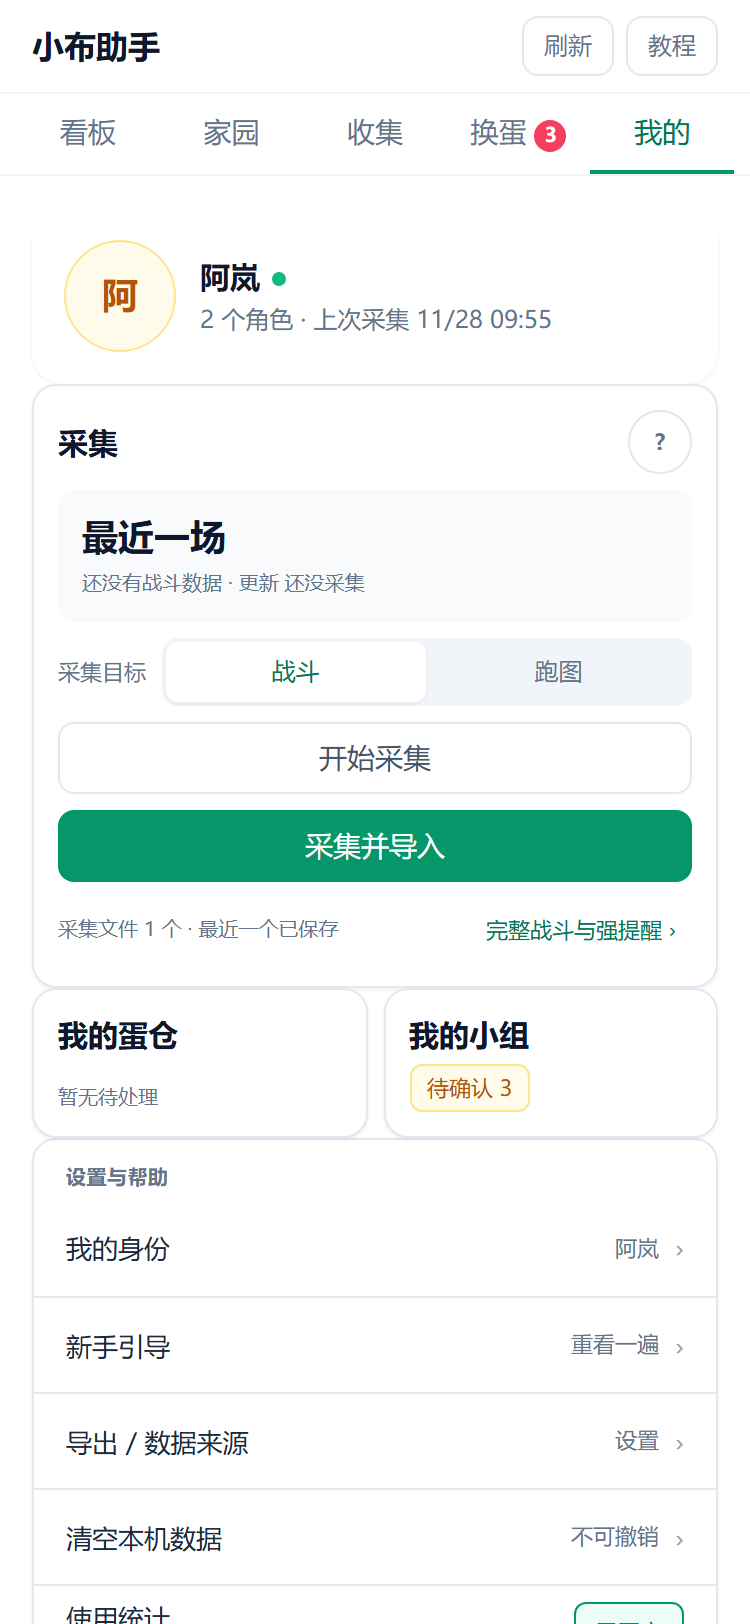
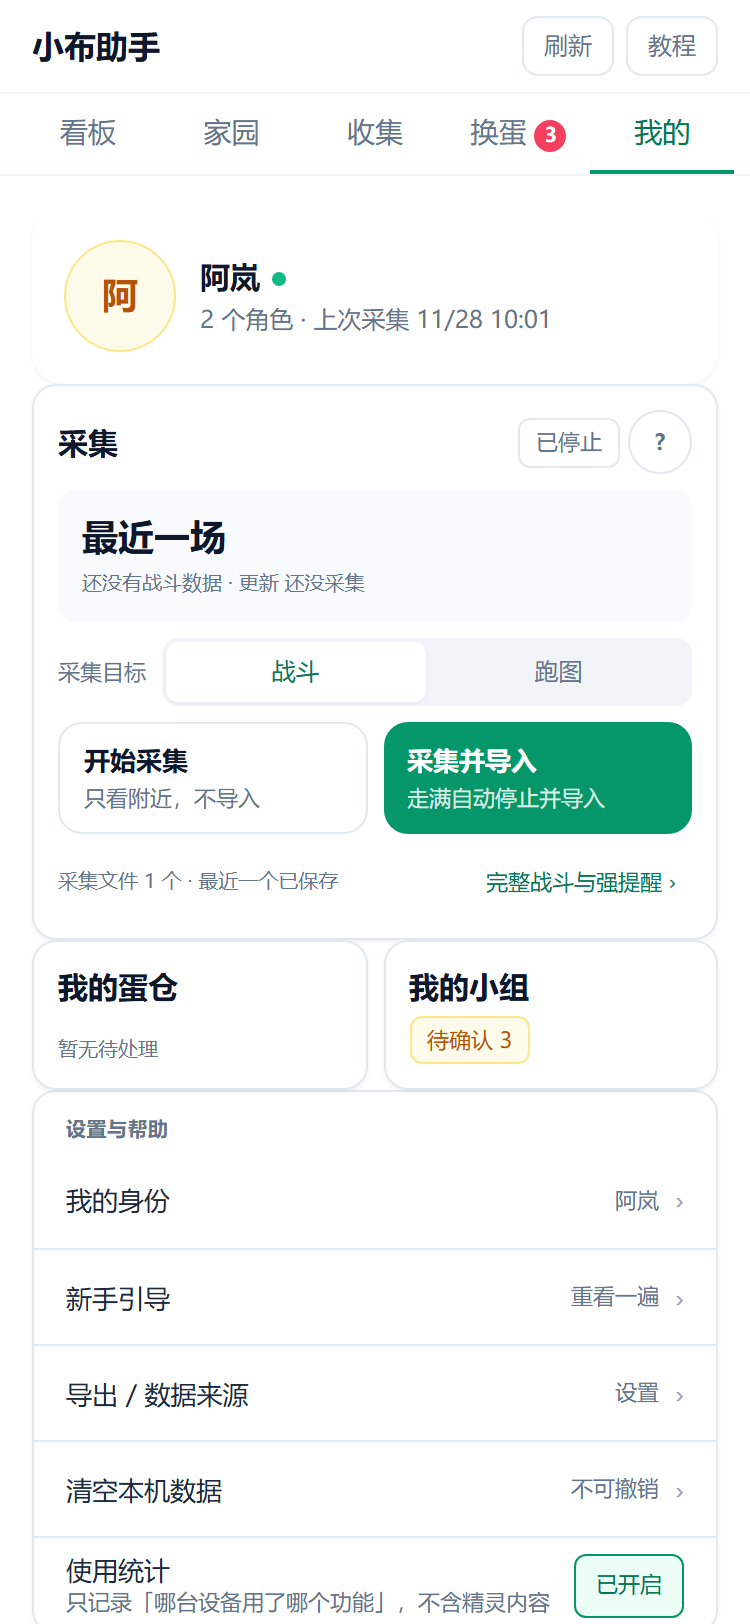
feat(profile): 采集卡两个启动入口并排 + 自动完成态（UX1 v3 最终稿）
- 两张并排小卡（各约 156×56）：左白底描边「开始采集 / 只看附近，不导入」，
  右实底「采集并导入 / 走满自动停止并导入」；全卡唯一主色在右侧
- 卡头加状态 chip（已停止 / 采集中 / 已完成）
- 采集中：两张收起成整行危险色「停止并保存 N 包 · X MiB」，详情页发起时
  仍显示「本次由详情页发起，不自动停止、不自动导入」+「查看列表」
- 自动导入完成：出现一次性「已采集并导入」完成态（知道了 消掉），
  不再直接变回「已停止」；失败测试钉住（CollectSection.complete.test.tsx）
- 截图：全页 / 采集中 / ? 展开 / 自动完成，375 与 390
  （完成态截图用 DEV-only ?mockComplete=1 强制展示）

diff --git a/src/ui/NativeCollectorPanel.tsx b/src/ui/NativeCollectorPanel.tsx
@@ -63,6 +63,10 @@ export function NativeCollectorPanel({
    *  附近页触发的也是同一流程，所以等待期间切页不会中断，回来也不会重复导入。 */
   const flow = useAutoImport();
   const completed = flow.completion;
+  // 仅开发/截图：?mockComplete=1 强制展示一次性完成态（生产构建会摇掉）
+  const forceComplete = import.meta.env.DEV && typeof window !== 'undefined'
+    && new URLSearchParams(window.location.search).has('mockComplete');
+  const showComplete = completed != null || forceComplete;
   const autoStage = flow.stage;
   const completionError = flow.completionError;
   /** 采集归属：这路采集是从附近页还是本页发起的（决定要不要自动停止 / 导入） */
@@ -294,6 +298,13 @@ export function NativeCollectorPanel({
       <section data-testid="native-collector" data-compact="true" className="space-y-s2">
         <div className="flex items-center justify-between gap-s2">
           <h2 className="text-title font-semibold text-ink-strong">采集</h2>
+          <div className="flex items-center gap-s1">
+            <span
+              className="rounded-chip border border-line px-s2 py-s1 text-meta text-ink-muted"
+              data-testid="profile-collect-state"
+            >
+              {showComplete ? '已完成' : busy ? '采集中' : '已停止'}
+            </span>
           <button
             type="button"
             aria-expanded={helpOpen}
@@ -304,6 +315,7 @@ export function NativeCollectorPanel({
           >
             ?
           </button>
+          </div>
         </div>
 
         {/* 边界与错误不收起：没有桥 / 系统过低 / 桥报错直接可见 */}
@@ -362,15 +374,34 @@ export function NativeCollectorPanel({
           />
         </div>
 
-        {busy ? (
+        {showComplete && !busy ? (
+          <div
+            className="space-y-s2 rounded-tile border border-accent-line bg-accent-soft p-s3"
+            data-testid="profile-collect-complete"
+          >
+            <div>
+              <p className="text-body font-semibold text-accent-strong">已采集并导入</p>
+              <p className="text-caption text-ink-soft">这次采集的数据已经保存到本机，看板可直接使用。</p>
+            </div>
+            <Button
+              variant="secondary"
+              size="sm"
+              onClick={() => clearAutoImportCompletion()}
+              data-testid="profile-collect-complete-dismiss"
+            >
+              知道了
+            </Button>
+          </div>
+        ) : busy ? (
           <div className="space-y-s2" data-testid="profile-collect-busy">
             <Button
+              variant="danger"
               className="w-full"
               disabled={state?.phase === 'stopping'}
               onClick={() => void action('stopCapture')}
               data-testid="profile-collect-stop"
             >
-              停止并保存
+              {'停止并保存 ' + (state?.packets ?? 0) + ' 包 · ' + ((state?.bytes ?? 0) / 1024 / 1024).toFixed(1) + ' MiB'}
             </Button>
             {nearbyOwnedNow ? (
               <p className="text-caption text-ink-muted" data-testid="profile-collect-nearby-owned">
@@ -384,24 +415,27 @@ export function NativeCollectorPanel({
             ) : null}
           </div>
         ) : (
-          <div className="space-y-s2">
-            <Button
-              variant="secondary"
-              className="w-full"
+          <div className="grid grid-cols-2 gap-s2" data-testid="profile-collect-actions">
+            <button
+              type="button"
               disabled={importing || !!error || (desktop && !devices?.ok)}
               onClick={() => void peek()}
               data-testid="profile-collect-peek"
+              className="flex min-h-14 flex-col items-start justify-center rounded-card border border-line bg-surface px-s3 py-s2 text-left transition-colors active:bg-surface-sunken disabled:opacity-50"
             >
-              开始采集
-            </Button>
-            <Button
-              className="w-full"
+              <span className="text-[13px] font-semibold text-ink-strong">开始采集</span>
+              <span className="text-[11px] text-ink-muted">只看附近，不导入</span>
+            </button>
+            <button
+              type="button"
               disabled={importing || !!error || (desktop && !devices?.ok)}
               onClick={() => void action('startCapture')}
               data-testid="profile-collect-import"
+              className="flex min-h-14 flex-col items-start justify-center rounded-card bg-accent px-s3 py-s2 text-left text-white transition-colors active:bg-accent-strong disabled:opacity-50"
             >
-              采集并导入
-            </Button>
+              <span className="text-[13px] font-semibold">采集并导入</span>
+              <span className="text-[11px] text-white/85">走满自动停止并导入</span>
+            </button>
           </div>
         )}
 

diff --git a/src/ui/profile/sections/CollectSection.complete.test.tsx b/src/ui/profile/sections/CollectSection.complete.test.tsx
@@ -1,0 +1,57 @@
+import { cleanup, render, screen } from '@testing-library/react';
+import { afterEach, beforeEach, describe, expect, test, vi } from 'vitest';
+import { CollectSection } from './CollectSection';
+import { makeCtx } from '../testContext';
+
+/**
+ * 「采集并导入」走完自动停止 + 自动导入后，卡片要出现一次性的「已采集并导入」，
+ * 不能直接变回「已停止」（用户看不到那个停止按钮，需要一个已入库信号）。
+ */
+const { clearAutoImportCompletion } = vi.hoisted(() => ({ clearAutoImportCompletion: vi.fn() }));
+vi.mock('../../../collector/autoImportFlow', async (importOriginal) => {
+  const actual = await importOriginal<typeof import('../../../collector/autoImportFlow')>();
+  return {
+    ...actual,
+    useAutoImport: () => ({ stage: null, completion: { mock: true }, completionError: null }),
+    clearAutoImportCompletion,
+  };
+});
+
+const bridgeState = JSON.stringify({
+  version: 1,
+  supported: true,
+  phase: 'idle',
+  message: '已停止',
+  packets: 0,
+  bytes: 0,
+  files: [],
+});
+
+beforeEach(() => {
+  clearAutoImportCompletion.mockClear();
+  (window as unknown as { RocoCapture?: unknown }).RocoCapture = {
+    getState: async () => bridgeState,
+    startCapture: async () => '',
+    stopCapture: async () => '',
+  };
+});
+
+afterEach(() => {
+  cleanup();
+  delete (window as unknown as { RocoCapture?: unknown }).RocoCapture;
+});
+
+describe('采集卡的完成态', () => {
+  test('导入完成后显示「已采集并导入」，点「知道了」消费掉', async () => {
+    render(<CollectSection ctx={makeCtx()} />);
+
+    const done = await screen.findByTestId('profile-collect-complete');
+    expect(done).toHaveTextContent('已采集并导入');
+    expect(screen.getByTestId('profile-collect-state')).toHaveTextContent('已完成');
+    // 完成态下不再给两个启动入口
+    expect(screen.queryByTestId('profile-collect-actions')).toBeNull();
+
+    screen.getByTestId('profile-collect-complete-dismiss').click();
+    expect(clearAutoImportCompletion).toHaveBeenCalledTimes(1);
+  });
+});
